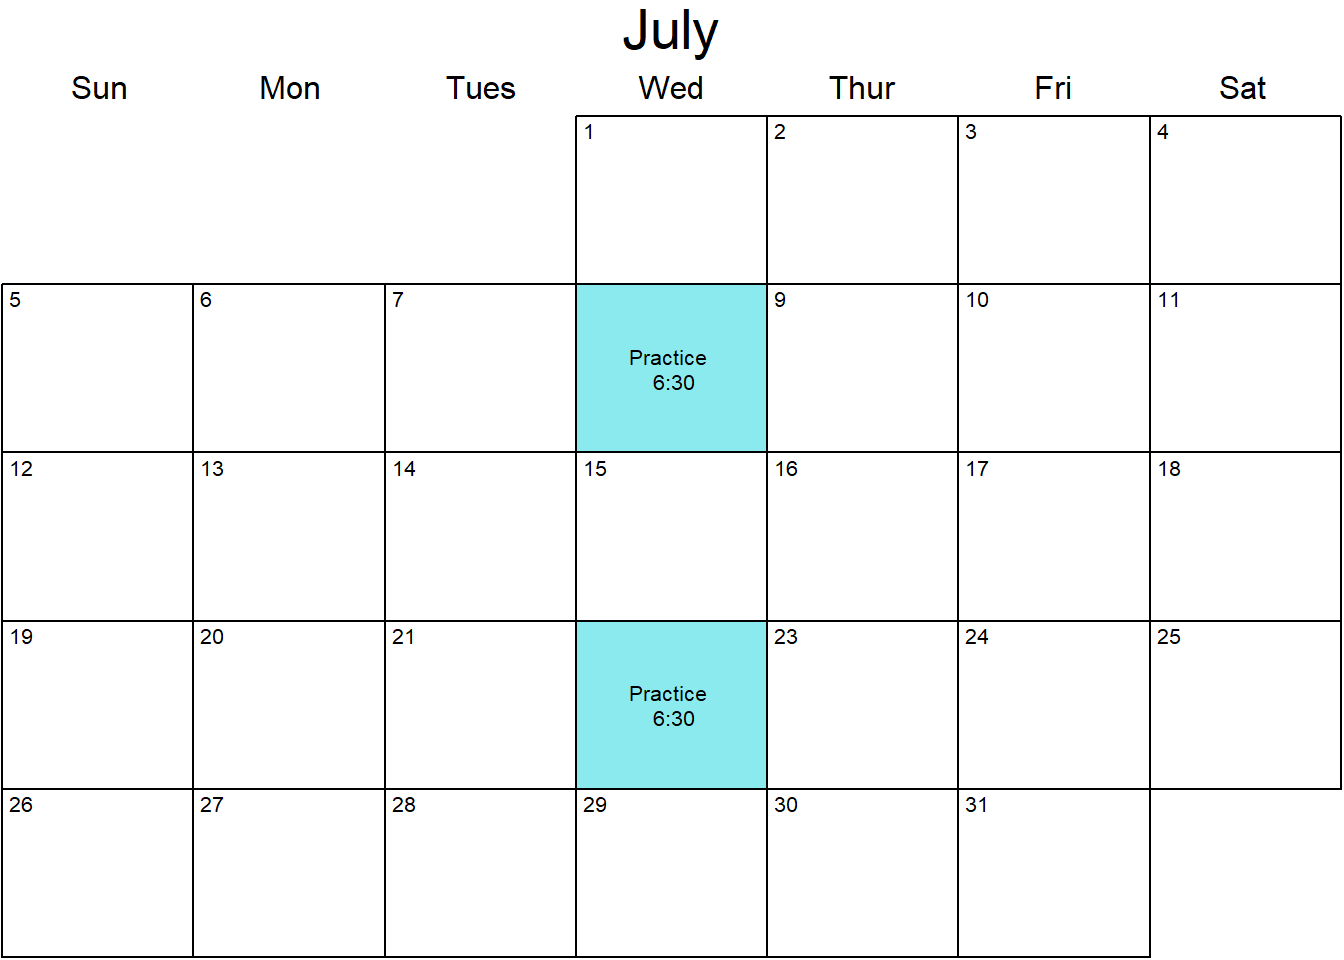
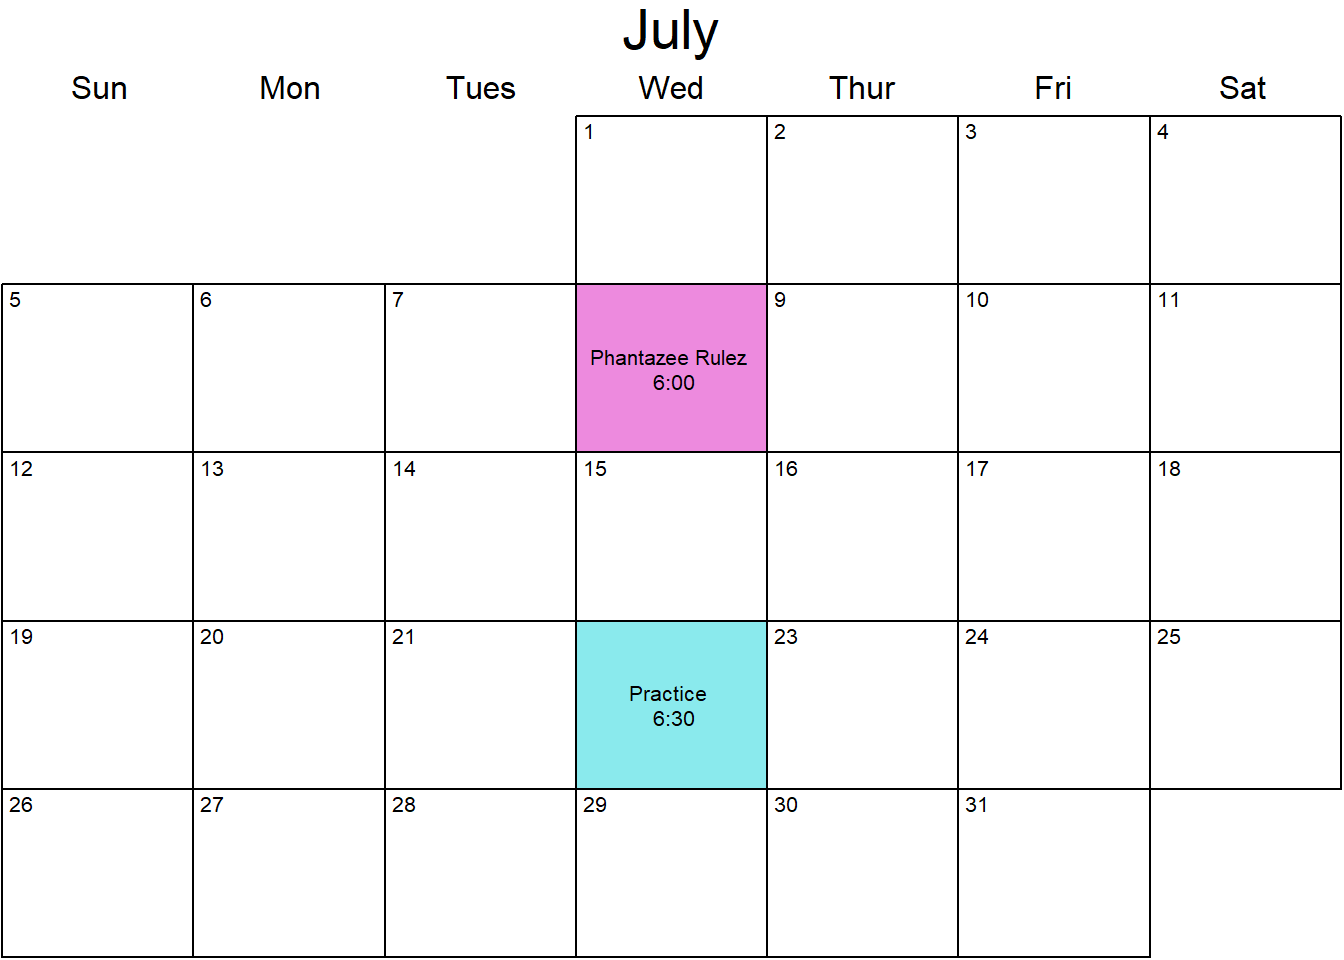
rulez meeting updated

Changed region(s): [[0.4062, 0.2812, 0.5938, 0.4688]]

diff --git a/docs/discography.html b/docs/discography.html
@@ -352,8 +352,8 @@ ul.task-list li input[type="checkbox"] {
 <h2 class="anchored" data-anchor-id="songs-played">Songs played</h2>
 <div class="cell">
 <div class="cell-output-display">
-<div class="datatables html-widget html-fill-item" id="htmlwidget-c9a610f857e80bc9fbf7" style="width:100%;height:auto;"></div>
-<script type="application/json" data-for="htmlwidget-c9a610f857e80bc9fbf7">{"x":{"filter":"none","vertical":false,"data":[["Peter Gunn Theme","Sharp Dressed Man","Workin' Man Blues","Night of the Living Chimichanga","Hot Tub","Tight Pants","Mary had a Little Lamb","Folsom Prison","Color of Her Eyes","Stuck in the Middle with You","Eastbound &amp; Down","Cream","Keep your Hands to Yourself","Fast as You"],[" Henry Mancini","ZZ Top","Merle Haggard","The Crawlers","Kitty Wampas","Howard &amp; the White Boys"," Stevie Ray Vaughn"," Johnny Cash"," Gear Daddies"," Stealers Wheel"," Jerry Reed"," Prince"," Georgia Satelites"," Dwight Yoakam"]],"container":"<table class=\"display\">\n  <thead>\n    <tr>\n      <th>Song<\/th>\n      <th>Band<\/th>\n    <\/tr>\n  <\/thead>\n<\/table>","options":{"pageLength":5,"lengthMenu":[5,10,15,20,25],"columnDefs":[{"name":"Song","targets":0},{"name":"Band","targets":1}],"order":[],"autoWidth":false,"orderClasses":false}},"evals":[],"jsHooks":[]}</script>
+<div class="datatables html-widget html-fill-item" id="htmlwidget-1086bc31b75d35fcc8b8" style="width:100%;height:auto;"></div>
+<script type="application/json" data-for="htmlwidget-1086bc31b75d35fcc8b8">{"x":{"filter":"none","vertical":false,"data":[["Peter Gunn Theme","Sharp Dressed Man","Workin' Man Blues","Night of the Living Chimichanga","Hot Tub","Tight Pants","Mary had a Little Lamb","Folsom Prison","Color of Her Eyes","Stuck in the Middle with You","Eastbound &amp; Down","Cream","Keep your Hands to Yourself","Fast as You"],[" Henry Mancini","ZZ Top","Merle Haggard","The Crawlers","Kitty Wampas","Howard &amp; the White Boys"," Stevie Ray Vaughn"," Johnny Cash"," Gear Daddies"," Stealers Wheel"," Jerry Reed"," Prince"," Georgia Satelites"," Dwight Yoakam"]],"container":"<table class=\"display\">\n  <thead>\n    <tr>\n      <th>Song<\/th>\n      <th>Band<\/th>\n    <\/tr>\n  <\/thead>\n<\/table>","options":{"pageLength":5,"lengthMenu":[5,10,15,20,25],"columnDefs":[{"name":"Song","targets":0},{"name":"Band","targets":1}],"order":[],"autoWidth":false,"orderClasses":false}},"evals":[],"jsHooks":[]}</script>
 </div>
 </div>
 </section>

diff --git a/docs/phantazee.html b/docs/phantazee.html
@@ -347,8 +347,8 @@ ul.task-list li input[type="checkbox"] {
 <div id="fig-chord" class="cell-output-display quarto-float quarto-figure quarto-figure-center anchored">
 <figure class="quarto-float quarto-float-fig figure">
 <div aria-describedby="fig-chord-caption-0ceaefa1-69ba-4598-a22c-09a6ac19f8ca">
-<div class="chorddiag html-widget html-fill-item" id="htmlwidget-8143ac1f5f4d0880f678" style="width:100%;height:464px;"></div>
-<script type="application/json" data-for="htmlwidget-8143ac1f5f4d0880f678">{"x":{"matrix":[[0,1,2,0,0,0,0,2,0,0,0,0],[0,0,0,0,0,0,0,0,0,0,0,0],[3,0,0,0,0,0,0,1,2,0,0,0],[0,0,0,0,0,0,0,0,0,0,0,0],[0,0,0,0,0,0,0,0,0,0,0,0],[0,2,0,0,0,0,0,0,0,0,0,0],[0,0,0,0,0,0,0,0,0,0,0,0],[2,0,0,0,0,0,0,0,0,0,0,0],[0,0,2,0,0,0,0,0,0,0,0,0],[0,0,0,0,0,0,0,0,0,0,0,0],[0,0,0,0,0,0,0,0,0,0,0,0],[0,0,0,0,0,0,0,0,0,0,0,0]],"options":{"type":"directional","width":null,"height":null,"margin":100,"showGroupnames":true,"groupNames":["Travis","Strauss","Kyle","K&G","John-o","Jeff","Jason","Jake","Gary","Dave","Chirag","Brian"],"groupColors":["#1B9E77","#D95F02","#7570B3","#E7298A","#66A61E","#E6AB02","#A6761D","#666666"],"groupThickness":0.1,"groupPadding":0.03490658503988659,"groupnamePadding":[20,20,20,20,20,20,20,20,20,20,20,20],"groupnameFontsize":18,"groupedgeColor":null,"chordedgeColor":"#808080","categoryNames":null,"categorynamePadding":100,"categorynameFontsize":28,"showTicks":true,"tickInterval":0.1,"ticklabelFontsize":10,"fadeLevel":0.1,"showTooltips":true,"showZeroTooltips":true,"tooltipNames":["Travis","Strauss","Kyle","K&G","John-o","Jeff","Jason","Jake","Gary","Dave","Chirag","Brian"],"tooltipFontsize":12,"tooltipUnit":"","tooltipGroupConnector":" &#x25B6; ","precision":"null","clickAction":null,"clickGroupAction":null}},"evals":[],"jsHooks":[]}</script>
+<div class="chorddiag html-widget html-fill-item" id="htmlwidget-3e1143d1a589ad5417ac" style="width:100%;height:464px;"></div>
+<script type="application/json" data-for="htmlwidget-3e1143d1a589ad5417ac">{"x":{"matrix":[[0,1,2,0,0,0,0,2,0,0,0,0],[0,0,0,0,0,0,0,0,0,0,0,0],[3,0,0,0,0,0,0,1,2,0,0,0],[0,0,0,0,0,0,0,0,0,0,0,0],[0,0,0,0,0,0,0,0,0,0,0,0],[0,2,0,0,0,0,0,0,0,0,0,0],[0,0,0,0,0,0,0,0,0,0,0,0],[2,0,0,0,0,0,0,0,0,0,0,0],[0,0,2,0,0,0,0,0,0,0,0,0],[0,0,0,0,0,0,0,0,0,0,0,0],[0,0,0,0,0,0,0,0,0,0,0,0],[0,0,0,0,0,0,0,0,0,0,0,0]],"options":{"type":"directional","width":null,"height":null,"margin":100,"showGroupnames":true,"groupNames":["Travis","Strauss","Kyle","K&G","John-o","Jeff","Jason","Jake","Gary","Dave","Chirag","Brian"],"groupColors":["#1B9E77","#D95F02","#7570B3","#E7298A","#66A61E","#E6AB02","#A6761D","#666666"],"groupThickness":0.1,"groupPadding":0.03490658503988659,"groupnamePadding":[20,20,20,20,20,20,20,20,20,20,20,20],"groupnameFontsize":18,"groupedgeColor":null,"chordedgeColor":"#808080","categoryNames":null,"categorynamePadding":100,"categorynameFontsize":28,"showTicks":true,"tickInterval":0.1,"ticklabelFontsize":10,"fadeLevel":0.1,"showTooltips":true,"showZeroTooltips":true,"tooltipNames":["Travis","Strauss","Kyle","K&G","John-o","Jeff","Jason","Jake","Gary","Dave","Chirag","Brian"],"tooltipFontsize":12,"tooltipUnit":"","tooltipGroupConnector":" &#x25B6; ","precision":"null","clickAction":null,"clickGroupAction":null}},"evals":[],"jsHooks":[]}</script>
 </div>
 <figcaption class="quarto-float-caption-bottom quarto-float-caption quarto-float-fig" id="fig-chord-caption-0ceaefa1-69ba-4598-a22c-09a6ac19f8ca">
 Figure&nbsp;1: Total drapht pick trades (2026–) Chord diagram